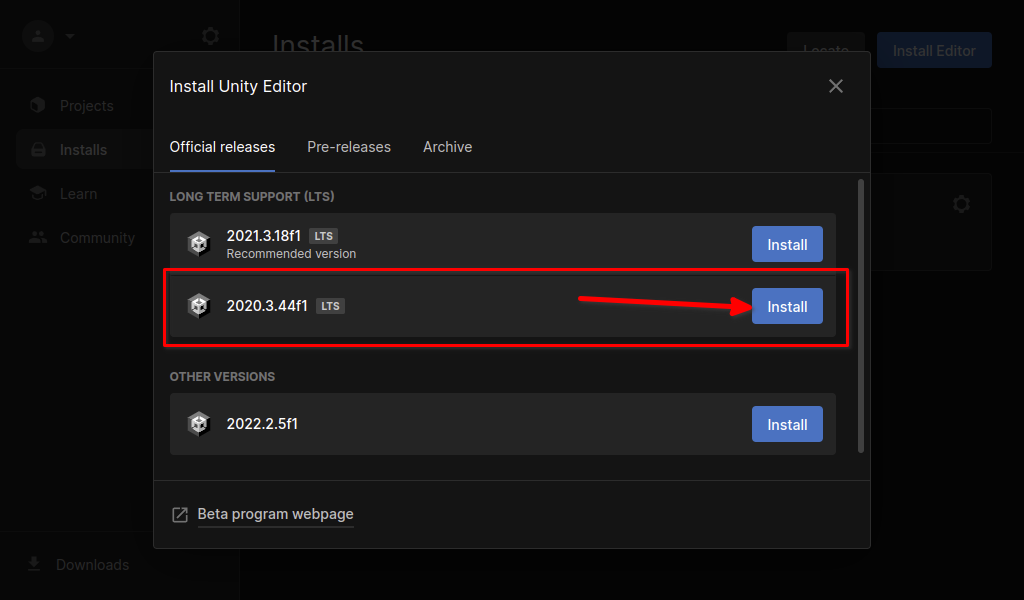
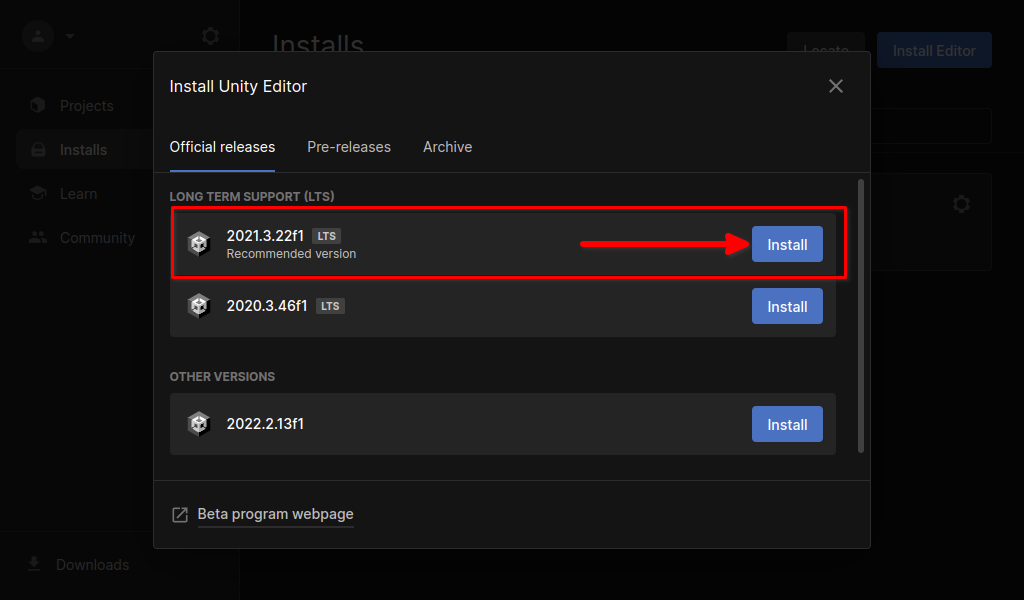
stuff

Changed region(s): [[0.1562, 0.33, 0.8438, 0.54], [0.1562, 0.57, 0.8125, 0.6], [0.25, 0.69, 0.3125, 0.72]]

diff --git a/docs-contributing/setup/introduction.md b/docs-contributing/setup/introduction.md
@@ -8,8 +8,8 @@ Before proceeding, please fork the [repository](https://github.com/megaminerjenn
 
 Then start with installing Git or GitHub Desktop on your machine, select your operating system:
 
-- [Windows](./git/windows/introduction)
-- [MacOS](./git/mac/introduction)
-- [Linux](./git/linux/introduction)
+- [Windows](/docs-contributing/setup/git/windows/introduction)
+- [MacOS](/docs-contributing/setup/git/mac/introduction)
+- [Linux](/docs-contributing/setup/git/linux/introduction)
 
 <HeaderBadgesWidget commaDelimitedContributors="Saraistupid" lastDateString="2/9/23" />

diff --git a/docs-contributing/setup/unity/linux/1_installation.md b/docs-contributing/setup/unity/linux/1_installation.md
@@ -29,7 +29,7 @@ paru -S unityhub
 
 ![editor](../assets/secondstep.png)
 
-6. Select the latest 2020.3.xx LTS release.
+6. Select the 2021.3.21 LTS release.
 
 ![version](../assets/thirdstep.png)
 
@@ -39,3 +39,5 @@ I (the person writing this part of the document) have an issue where Unity can't
 ```sh
 DOTNET_SYSTEM_GLOBALIZATION_INVARIANT=1 unityhub
 ```
+
+Now continue on to [Opening the project in Unity](/docs-contributing/setup/loading/project).

diff --git a/docs-contributing/setup/unity/mac/1_installation.md b/docs-contributing/setup/unity/mac/1_installation.md
@@ -13,6 +13,8 @@
 
 ![editor](../assets/secondstep.png)
 
-8. Select the latest 2020.3.xx LTS release.
+8. Select the 2021.3.21 LTS release.
 
 ![version](../assets/thirdstep.png)
+
+Now continue on to [Opening the project in Unity](/docs-contributing/setup/loading/project).

diff --git a/docs-contributing/setup/unity/windows/1_installation.md b/docs-contributing/setup/unity/windows/1_installation.md
@@ -13,6 +13,8 @@
 
 ![editor](../assets/secondstep.png)
 
-8. Select the latest 2020.3.xx LTS release.
+8. Select the 2021.3.21 LTS release.
 
 ![version](../assets/thirdstep.png)
+
+Now continue on to [Opening the project in Unity](/docs-contributing/setup/loading/project).

diff --git a/docs-contributing/setup/git/mac/git/1_installation.md b/docs-contributing/setup/git/mac/git/1_installation.md
@@ -31,3 +31,5 @@ git clone THE_LINK_YOU_COPIED_HERE
 ```
 
 **Note: this will clone the repository into your home folder, which is accessed in Finder by pressing Shift + ⌘ + H**
+
+Now continue on to [Installing Unity](/docs-contributing/setup/unity/mac/installation).

diff --git a/docs-contributing/setup/git/windows/git/1_installation.md b/docs-contributing/setup/git/windows/git/1_installation.md
@@ -19,3 +19,5 @@
 git clone THE_LINK_YOU_COPIED_HERE
 ```
 **Note: This will clone the repository into your user's folder**
+
+Now continue on to [Installing Unity](/docs-contributing/setup/unity/windows/installation).

diff --git a/docs-contributing/setup/git/windows/desktop/1_installation.md b/docs-contributing/setup/git/windows/desktop/1_installation.md
@@ -10,3 +10,5 @@
 2. Clone it.
 3. Select "for myself".
 4. Click "Open in Explorer" for future reference.
+
+Now continue on to [Installing Unity](/docs-contributing/setup/unity/windows/installation).

diff --git a/docs-contributing/setup/git/mac/desktop/1_installation.md b/docs-contributing/setup/git/mac/desktop/1_installation.md
@@ -10,3 +10,5 @@
 2. Clone it.
 3. Select "for myself".
 4. Click "Open in Finder" for future reference.
+
+Now continue on to [Installing Unity](/docs-contributing/setup/unity/mac/installation).

diff --git a/docs-contributing/setup/git/linux/git/1_installation.md b/docs-contributing/setup/git/linux/git/1_installation.md
@@ -62,3 +62,5 @@ why are you even reading this.
 ```sh
 git clone THE_LINK_YOU_COPIED_HERE
 ```
+
+Now continue on to [Installing Unity](/docs-contributing/setup/unity/linux/installation).
